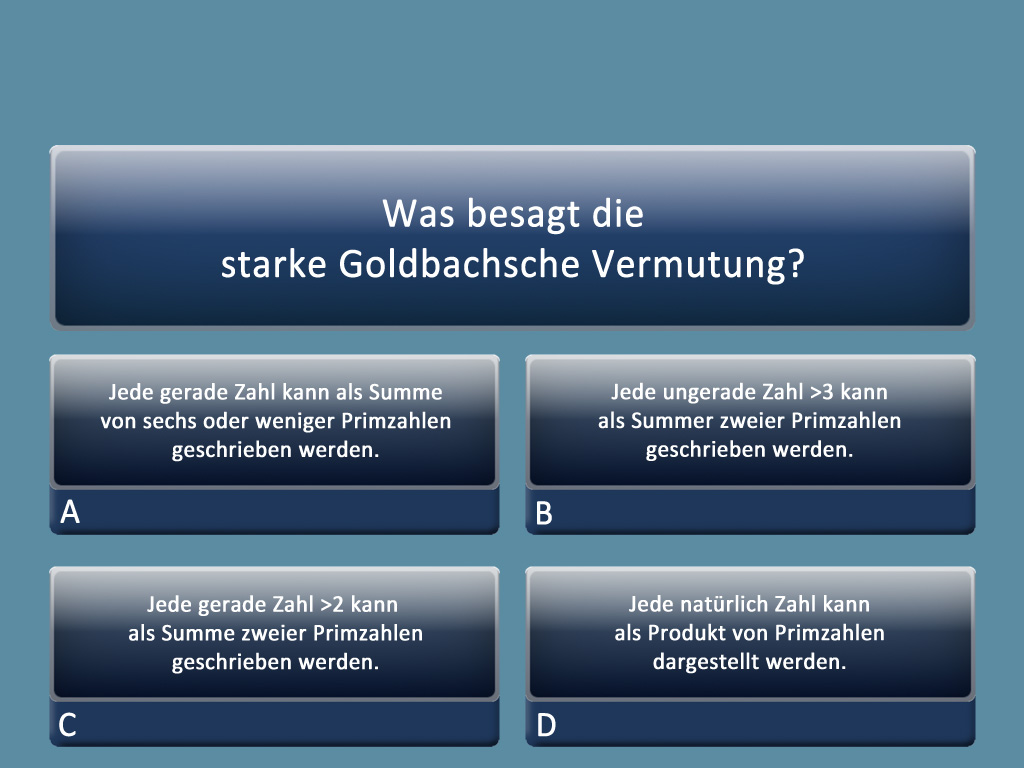
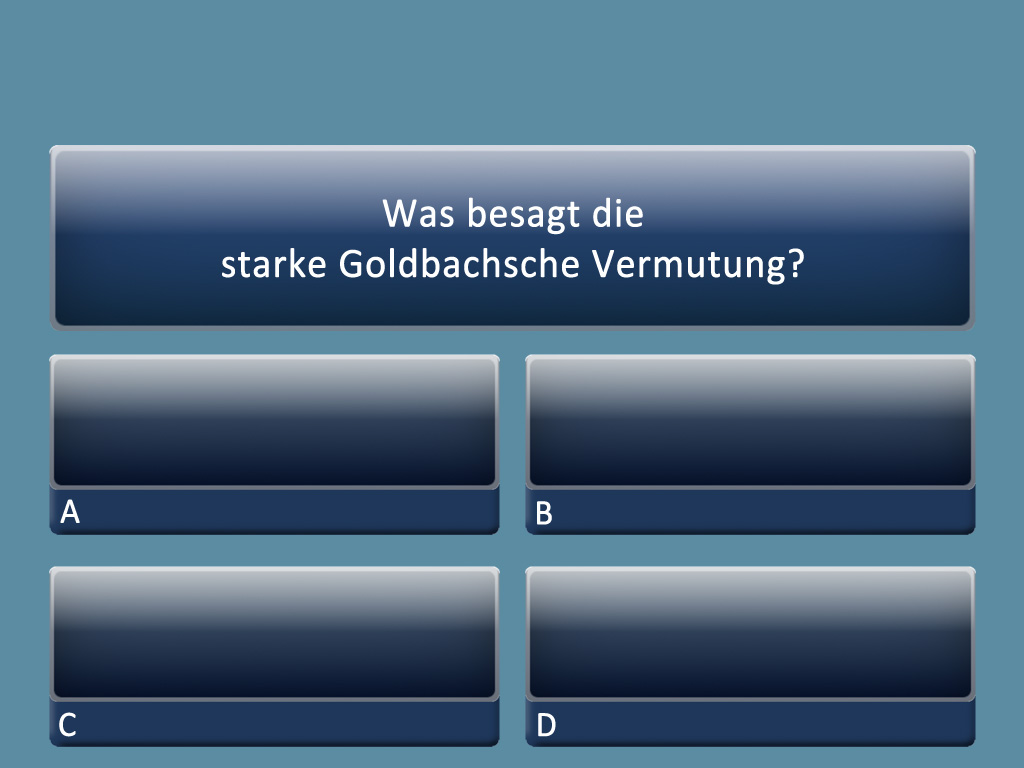
Fertig.

diff --git a/app/assets/javascripts/presentation.js b/app/assets/javascripts/presentation.js
@@ -20,6 +20,7 @@ var observe_view_state = function(){
         if(data.view_state == 'showing_correct_answer'){
           $('body').css('background-image', 'url("/assets/frage'+ data.current_question_number +'_antwort.jpg")');
         }
+
       }
 
       loaded = false;
@@ -44,6 +45,22 @@ var observe_view_state = function(){
 
         if(data.view_state == 'finished'){
           $('body').css('background-image', 'url("/assets/hintergrund.jpg")');
+        }
+
+        if(data.view_state == 'showing_answer_a'){
+          $('body').css('background-image', 'url("/assets/frage'+ data.current_question_number +'a.jpg")');
+        }
+
+        if(data.view_state == 'showing_answer_b'){
+          $('body').css('background-image', 'url("/assets/frage'+ data.current_question_number +'b.jpg")');
+        }
+
+        if(data.view_state == 'showing_answer_c'){
+          $('body').css('background-image', 'url("/assets/frage'+ data.current_question_number +'c.jpg")');
+        }
+
+        if(data.view_state == 'showing_answer_d'){
+          $('body').css('background-image', 'url("/assets/frage'+ data.current_question_number +'d.jpg")');
         }
 
 

diff --git a/app/models/game_state.rb b/app/models/game_state.rb
@@ -2,6 +2,10 @@ class GameState < ActiveRecord::Base
 
   define_constants_for_attribute(:state,
                                  :showing_question,
+                                 :showing_answer_a,
+                                 :showing_answer_b,
+                                 :showing_answer_c,
+                                 :showing_answer_d,
                                  :starting,
                                  :audience_answering,
                                  :team_answering,

diff --git a/app/controllers/presentation_controller.rb b/app/controllers/presentation_controller.rb
@@ -26,6 +26,22 @@ class PresentationController < ApplicationController
     render nothing: true
   end
 
+  def showing_answer_a
+    render nothing: true
+  end
+
+  def showing_answer_b
+    render nothing: true
+  end
+
+  def showing_answer_c
+    render nothing: true
+  end
+
+  def showing_answer_d
+    render nothing: true
+  end
+
   def assigning_points
     gs = GameState.instance
     @team_answer = gs.current_question.team_answer

diff --git a/config/routes.rb b/config/routes.rb
@@ -11,6 +11,10 @@ Rails.application.routes.draw do
   get "presentation/showing_correct_answer"
   get "presentation/finished"
   get "presentation/assigning_points"
+  get "presentation/showing_answer_a"
+  get "presentation/showing_answer_b"
+  get "presentation/showing_answer_c"
+  get "presentation/showing_answer_d"
 
   get "admin/index"
   post "admin/change_state"
